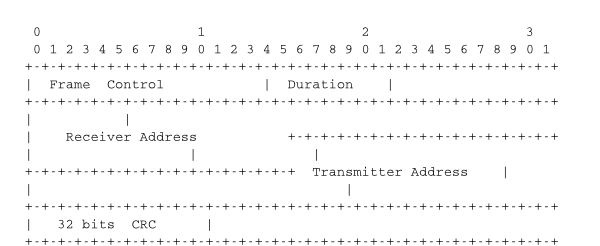
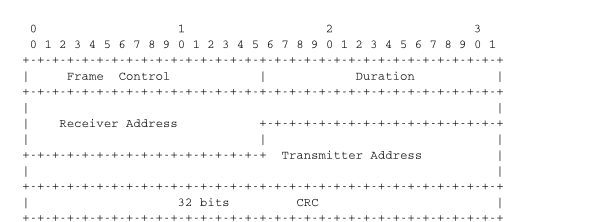
july 11
git-svn-id: https://scm.info.ucl.ac.be/svn/cnp3@235 14dccba5-582d-4002-99b7-ff2b615b05c3

diff --git a/book/util/packet2svg.py b/book/util/packet2svg.py
@@ -33,7 +33,7 @@ for fileName in (sys.argv[1:]) :
         line = file.readline()
         if not line:
             break
-        line=escape(line)  # to be XML compatible
+        line=escape(line.expandtabs(8))  # to be XML compatible
         newFile.write(" <tspan x=\"0\" dy=\"18\">")
         newFile.write(line)
         newFile.write("</tspan>")

diff --git a/book/transport/exercises/cha-transport.rst b/book/transport/exercises/cha-transport.rst
@@ -1,3 +1,5 @@
+.. Copyright |copy| 2010 by Olivier Bonaventure
+.. This file is licensed under a `creative commons licence <http://creativecommons.org/licenses/by-sa/3.0/>`_
 
 Programming challenges
 ######################

diff --git a/book/transport/exercises/ex-transport.rst b/book/transport/exercises/ex-transport.rst
@@ -1,2 +1,5 @@
+.. Copyright |copy| 2010 by Olivier Bonaventure
+.. This file is licensed under a `creative commons licence <http://creativecommons.org/licenses/by-sa/3.0/>`_
+
 Exercises
 #########
